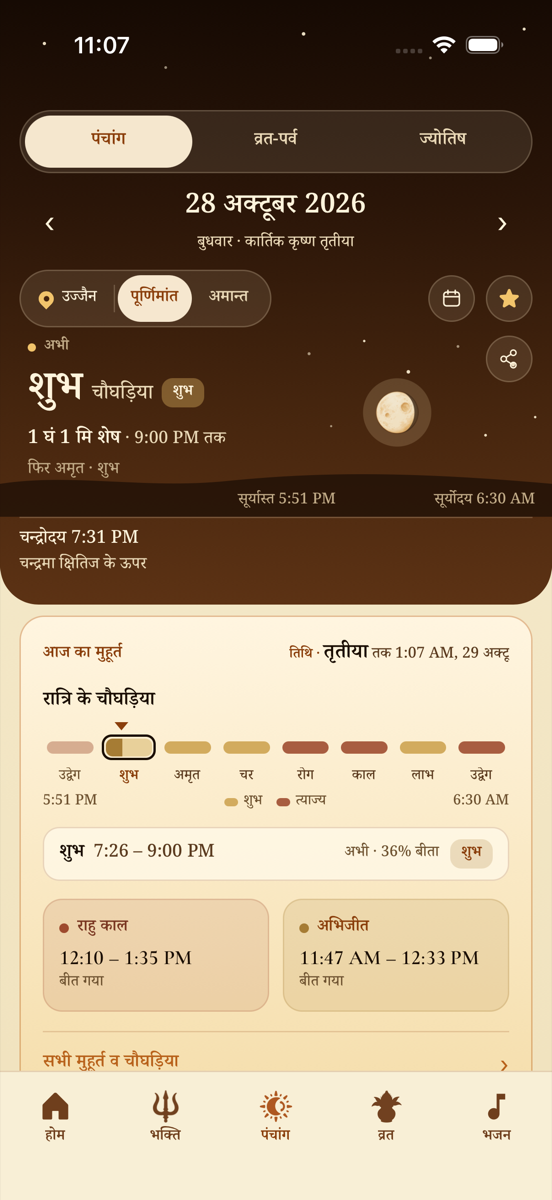
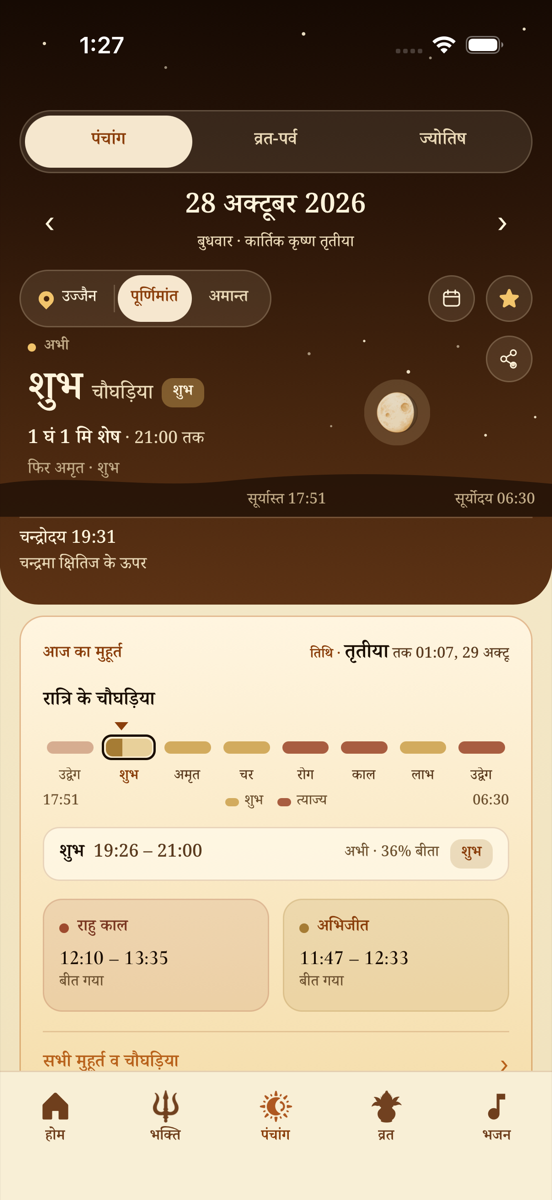
Record current 24-hour native moon horizon previews

diff --git a/wiki/subsystems/panchang.md b/wiki/subsystems/panchang.md
@@ -2,7 +2,7 @@
 title: Panchang, Muhurat & Jyotish
 type: subsystem
 sources: [mobile/src/panchang/moonHorizon.ts, mobile/src/panchang/useMoonHorizon.ts, mobile/src/components/useVratReminderAction.tsx, mobile/src/contexts/VratFollowContext.tsx, mobile/src/components/VratReminderSheet.tsx, mobile/src/components/VratReminderPermissionNotice.tsx, mobile/src/panchang/observancePortraits.ts, mobile/src/components/ObservanceArtwork.tsx, mobile/src/panchang/lenses.ts, mobile/src/panchang/lensRegistry.ts, mobile/src/panchang/lensStore.ts, mobile/src/panchang/useLenses.ts, mobile/src/components/LensPickerSheet.tsx, mobile/src/panchang/kundaliBasis.ts, mobile/src/panchang/kundaliYoga.ts, mobile/src/panchang/reportFormat.ts, mobile/src/panchang/prashna.ts, mobile/src/panchang/prashnaPurposes.ts, mobile/src/screens/PrashnaScreen.tsx, mobile/src/components/BasisChain.tsx, mobile/src/panchang/arcs.ts, mobile/src/panchang/arcChoiceStore.ts, mobile/src/panchang/useArcChoices.ts, mobile/src/components/ArcStrip.tsx, mobile/src/panchang/engine.ts, mobile/src/panchang/calendarGrid.ts, mobile/src/panchang/panchangDayStore.ts, mobile/src/panchang/backgroundWork.ts, mobile/src/panchang/panchangDayCache.ts, mobile/src/panchang/panchangDayPrewarm.ts, mobile/src/panchang/panchangPrefs.ts, mobile/src/panchang/birthProfiles.ts, mobile/src/panchang/birthProfileStore.ts, mobile/src/components/PersonChips.tsx, mobile/src/panchang/panchangLaunchPrefetch.ts, mobile/src/utils/derivedCacheReset.ts, mobile/src/utils/buildFingerprint.ts, mobile/src/panchang/panchangDaySerde.ts, mobile/src/panchang/muhuratFinderScan.ts, mobile/src/panchang/eventMuhurat.ts, mobile/src/panchang/lagnaSweep.ts, mobile/src/panchang/hora.ts, mobile/src/panchang/taraChandraBala.ts, mobile/src/panchang/useMuhuratBala.ts, mobile/src/components/MuhuratBalaStrip.tsx, docs/roadmap/conventions/muhurat-lagna-v1.md, docs/roadmap/conventions/muhurat-tarabala-v1.md, mobile/src/panchang/abujhMuhurat.ts, mobile/src/panchang/useMuhuratFinder.ts, mobile/src/panchang/pitruSmaran.ts, mobile/src/panchang/pitruSmaranSolves.ts, mobile/src/panchang/usePitruSmaranSolves.ts, mobile/src/screens/MuhuratFinderScreen.tsx, mobile/src/screens/MuhuratResultsScreen.tsx, mobile/src/screens/MuhuratDayDetailScreen.tsx, mobile/src/screens/AbujhDaysScreen.tsx, mobile/src/screens/PitruSmaranDetailScreen.tsx, mobile/src/screens/PitruSmaranListScreen.tsx, mobile/src/screens/PitruSmaranEditScreen.tsx, mobile/src/screens/PitruPakshaOverviewScreen.tsx, mobile/src/components/CalendarDatePicker.tsx, mobile/src/components/MuhuratFinderDoor.tsx, mobile/src/components/ObservanceDetailHero.tsx, mobile/src/components/ObservanceListRow.tsx, mobile/src/components/PanchangTimelineRow.tsx, mobile/src/components/PitruSmaranDayChip.tsx, mobile/src/panchang/festivalEngine.ts, mobile/src/panchang/festivals.ts, mobile/src/panchang/prevailingTithi.ts, mobile/src/panchang/upvasContent.ts, mobile/src/panchang/upvasParana.ts, mobile/src/panchang/useUpvasParana.ts, mobile/src/screens/ObservanceDetailScreen.tsx, docs/roadmap/prds/09-vrat-upvas-phase4.md, mobile/src/panchang/muhurat.ts, mobile/src/panchang/muhuratFormat.ts, mobile/src/panchang/useMuhurat.ts, mobile/src/panchang/usePanchang.ts, mobile/src/panchang/kundali.ts, mobile/src/panchang/useKundali.ts, mobile/src/panchang/gunaMilan.ts, mobile/src/panchang/gunaMilanConvention.ts, mobile/src/panchang/gunaMilanState.ts, mobile/src/panchang/gunaMilanShare.ts, mobile/src/panchang/namkaran.ts, mobile/src/panchang/namkaranConvention.ts, mobile/src/panchang/namkaranState.ts, mobile/src/panchang/namkaranShare.ts, mobile/src/screens/HomeScreen.tsx, mobile/src/screens/PanchangScreen.tsx, mobile/src/screens/MuhuratDetailScreen.tsx, mobile/src/screens/KundaliScreen.tsx, mobile/src/screens/RashifalScreen.tsx, mobile/src/screens/GunaMilanScreen.tsx, mobile/src/screens/NamkaranScreen.tsx, mobile/src/screens/NamkaranResultScreen.tsx, mobile/src/screens/NamkaranRashiScreen.tsx, mobile/src/components/TodayStrip.tsx, mobile/src/components/MuhuratGlanceCard.tsx, mobile/src/components/MuhuratCardBody.tsx, mobile/src/components/NorthIndianChart.tsx, mobile/src/components/KundaliOverview.tsx, mobile/src/components/JyotishGuidanceRows.tsx, mobile/src/components/JyotishPracticeCard.tsx, mobile/src/components/JyotishShareCard.tsx, mobile/src/components/JyotishShareSheet.tsx, mobile/src/components/JyotishStateCard.tsx, mobile/src/components/NamaksharCard.tsx, mobile/src/components/NameDetailSheet.tsx, mobile/src/components/NamkaranShareCard.tsx, mobile/src/navigation/TabNavigator.tsx, mobile/src/navigation/PanchangStackNavigator.tsx, mobile/.maestro/kundali-smoke.yaml, mobile/.maestro/guna-milan-smoke.yaml, mobile/.maestro/namkaran-smoke.yaml, docs/roadmap/prds/14-daily-muhurat.md, docs/roadmap/trds/14-daily-muhurat.trd.md, docs/roadmap/prds/16-guna-milan.md, docs/roadmap/conventions/guna-milan-v1.md, docs/roadmap/prds/17-namkaran.md, docs/roadmap/trds/17-namkaran.trd.md, mobile/src/components/CategoryCard.tsx, mobile/src/panchang/shubhYoga.ts, mobile/src/panchang/useShubhYoga.ts, mobile/src/components/MuhuratChip.tsx, mobile/src/components/ShubhYogaCard.tsx, docs/roadmap/conventions/shubh-yoga-v1.md, docs/roadmap/prds/27-shubh-yoga.md, mobile/src/panchang/prashnaPhase.ts, mobile/src/panchang/useJyotishNow.ts, mobile/src/components/PrashnaPhaseContent.tsx, mobile/src/panchang/prashnaGuidance.ts, mobile/src/panchang/prashnaQuestions.ts, mobile/src/panchang/vaas.ts, mobile/src/components/DayVaasCards.tsx, mobile/src/panchang/grahaReading.ts, mobile/src/panchang/grahaReadingContent.ts, mobile/src/panchang/grahaReviewSheet.ts, mobile/src/components/GrahaReadingList.tsx, mobile/scripts/export-graha-review.mts, docs/roadmap/conventions/graha-reading-v1.md]
-last_verified_date: 2026-10-28
+last_verified_date: 2026-10-29
 confidence: high
 status: current
 ---

diff --git a/docs/evaluations/panchang-day-icons-2026-10-27/night-horizon/README.md b/docs/evaluations/panchang-day-icons-2026-10-27/night-horizon/README.md
@@ -1,0 +1,61 @@
+# Native night-header preview
+
+The moon is a fixed painted phase illustration shown only between the selected
+location's calculated rise and set, with no bright Amavasya disc. Stars remain
+before rise and after set. The night retains sunset/sunrise boundary times; the
+moon no longer travels on that night-duration arc. Daytime sun behavior is unchanged.
+
+The moonrise footer follows the running night, including the previous sunset
+before dawn. Rises on another civil date are dated explicitly. Times follow the
+app's shared 24-hour format.
+
+## Captures
+
+Dedicated iPhone 17 Pro simulator, iOS 26.5, Ujjain. The app runtime clock was
+temporarily simulated; the status bar retains actual capture time. `captures.json`
+records the state, instant and clock restoration. Each state passed the focused
+Maestro capture flow and was visually inspected.
+
+| Capture | Simulated instant | Expected header |
+| --- | --- | --- |
+| `ios-before.png` | 28 October 2026, 19:00 IST | Stars only; moonrise 19:31; yet to rise |
+| `ios-after.png` | 28 October 2026, 20:00 IST | Painted waning moon; moonrise 19:31 retained |
+| `ios-set.png` | 20 October 2026, 02:00 IST | No moon in sky; moon has set; rise dated 13:39, 19 Oct |
+
+The last case's moonset is 00:44 on 20 October. Its rise was the previous afternoon,
+so an undated 13:39 would misleadingly look upcoming. Decorative phase icons on an
+observance ribbon or Tithi tile remain calendar illustrations, not sky visibility.
+
+## Reproduction
+
+Use the dedicated debug simulator with completed setup and this checkout's Metro
+on port 8106. `preview-clock.mjs` is an external local-debug helper; no app entry
+point imports it. It uses the local Hermes inspector and supports explicit restore.
+
+From the repository root, set one of the ISO instants above with:
+
+```sh
+node docs/evaluations/panchang-day-icons-2026-10-27/night-horizon/preview-clock.mjs '2026-10-28T19:00:00+05:30'
+```
+
+Run `mobile/.maestro/panchang-night-horizon-capture.yaml` with `PREVIEW_DATE`,
+`RESET_DATE`, `EXPECTED_STATE` (`not-risen`, `above` or `set`) and `SCREENSHOT`.
+Reset through the preceding civil date so hooks recompute after changing the
+preview clock. Assert the readable horizon-state label; the decorative moon is
+intentionally hidden from accessibility and cannot be a visibility selector.
+
+Always restore immediately after the preview:
+
+```sh
+node docs/evaluations/panchang-day-icons-2026-10-27/night-horizon/preview-clock.mjs restore
+```
+
+## Validation and limits
+
+Typecheck, focused ESLint, 23 Jest checks and five real-engine horizon tests pass.
+The three native state checks use completed setup; they do not establish first-run,
+Android or VoiceOver acceptance. The original development server exhausted its
+12GB heap during broad lazy-route warmup; captures resumed with Node 22, a 20GB
+heap and one Metro worker. After merging the 24-hour formatter, the app was cold
+reloaded before the final captures so cached older JavaScript could not produce
+outdated time labels. No release, OTA or store upload is part of this work.

diff --git a/wiki/concepts/deity-icons.md b/wiki/concepts/deity-icons.md
@@ -2,7 +2,7 @@
 title: Shared Storybook Icon System
 type: concept
 sources: [mobile/src/components/CelestialGlyph.tsx, mobile/src/utils/moonPhase.ts, mobile/src/panchang/observancePortraits.ts, mobile/src/components/ObservanceArtwork.tsx, mobile/src/components/observancePortraitSources.ts, mobile/src/data/__tests__/paintedIconsOnly.test.ts, mobile/src/components/FeatureIcon.tsx, mobile/src/components/HomeWordmark.tsx, docs/evaluations/home-gutter-2026-10-06/README.md, mobile/src/components/CelestialChakra.tsx, mobile/assets/decorations/celestial-chakra/manifest.json, docs/evaluations/celestial-chakra-2026-10-06/README.md, mobile/src/components/MoreIcon.tsx, mobile/src/screens/MoreScreen.tsx, mobile/assets/icons/more-storybook/manifest.json, docs/evaluations/storybook-icons-2026-10-06/more-alignment/README.md, mobile/src/components/DeityIcon.tsx, mobile/src/components/deityArtwork.ts, mobile/src/components/storybookSources.ts, mobile/src/components/StoryIcon.tsx, mobile/src/components/AppIcon.tsx, mobile/assets/icons/storybook/manifest.json, mobile/src/navigation/tabBarIcons.tsx, design.md, docs/evaluations/storybook-icons-2026-10-06/README.md, design-qa.md, mobile/src/screens/HomeScreen.tsx, mobile/src/components/CategoryCard.tsx, mobile/src/utils/homeLayout.ts, mobile/src/components/ReaderHeader.tsx, mobile/src/components/BookmarkButton.tsx, mobile/src/components/ShareButton.tsx, mobile/src/components/HomeWordmark.tsx, mobile/src/components/TodayRecommendationsRow.tsx, docs/evaluations/storybook-icons-2026-10-06/size-audit/README.md]
-last_verified_date: 2026-10-28
+last_verified_date: 2026-10-29
 confidence: high
 status: current
 ---

diff --git a/wiki/log.md b/wiki/log.md
@@ -1275,3 +1275,7 @@ Every rendered clock is now zero-padded 24-hour `HH:MM`: `formatClock` dropped A
 ## [2026-10-28] ingest | Mahakaal masters published to R2
 
 PR #555 added four Mahakaal masters (three Suvichar frames + the Daily Bhakti card) with `scripts/prepare-mahakaal.mjs` but never ran its publish step, so Suvichar sources were 51 vs a 48-entry manifest and `prepare-suvichar.mjs --verify` failed on main. Uploaded the four with immutable caching, then `prepare-mahakaal.mjs --activate` re-verified public bytes and activated both manifests (Suvichar 51, devotional-share 29).
+
+## [2026-10-29] ingest | Native horizon previews refreshed on current 24-hour main
+
+PR #556 is merged; the night-horizon follow-up is on `codex/panchang-night-moonrise`. Main's 24-hour formatter and subsequent share-card work are reconciled. Typecheck and 23 focused Jest checks pass on the combined tree; the five real-engine horizon checks also pass. Current native before-rise, after-rise and after-set captures all pass and are visually reviewed at Large size. Preview Date/Date.now overrides are restored, confirmed at 29 October 13:31 IST. No release action. See `docs/evaluations/panchang-day-icons-2026-10-27/night-horizon/README.md`.
